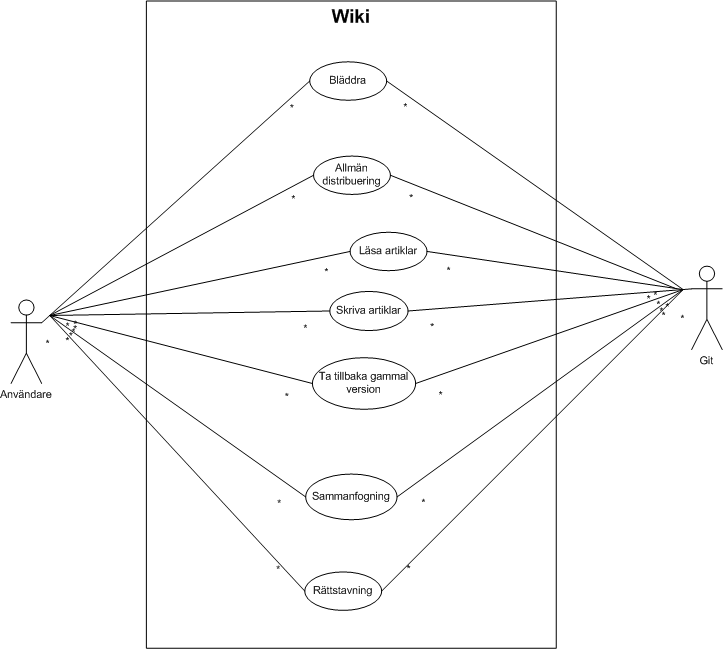
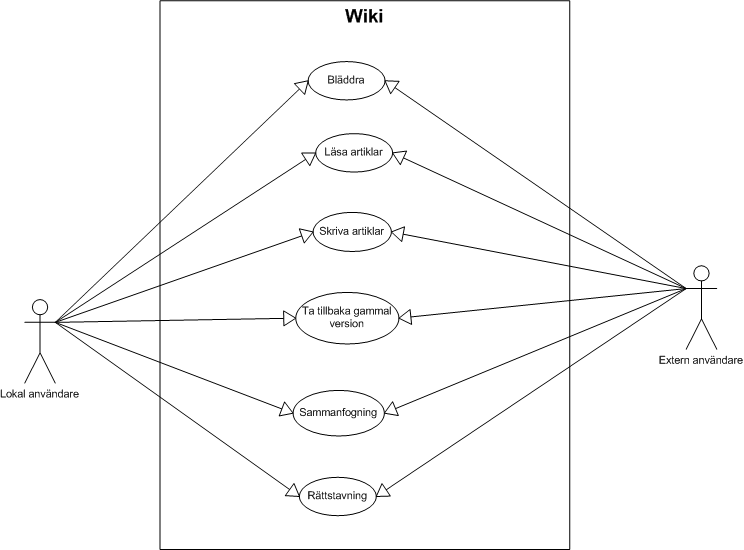
Use-case mode ska vara fixad med en ny bild

diff --git a/Dokument/Use-case Model.tex b/Dokument/Use-case Model.tex
@@ -27,22 +27,23 @@ För att enklare förstå de olika use-casen i har satt upp och få en överblic
 %Skapa en överblick för systemet, dvs beskriv vad systemet gör och vad desss mål är.
 Systemet i fråga är ett distribuerat versionshanteringssystem. Meningen med detta system är att man på ett enkelt sätt ska kunna hantera dokument i en wiki-miljö samtidigt som man inte ens behöver vara uppkopplad. När användaren sedan kopplar upp sig mot internet kan denne synkronisera sina ändringar med andra användares ändringar.
 \section{Use-case diagram}
-%\includegraphics{use-case-diagram.png}
-Här ska en bild på ett use-case diagram finnas
+ \begin{figure}[H] %  figure placement: here, top, bottom, or page
+  \centering
+  \includegraphics[scale=0.50]{Use-case-diagram.png}
+\end{figure}
+%\includegraphics{Use-case-diagram.png}
 \section{Aktörer}
 %Beskriv alla aktörer som finns med i use-case diagrammet.
 \begin{itemize}
-	\item Användare
-	\\Denna aktör representerar en normal användare inom systemet.
-	\item Git
-	\\Denna aktör ska representera systemet som ligger under wiki.
+	\item Lokal användare
+	\\Denna aktör representerar en normal användare som sitter vid sin dator och ej är uppkopplad mot internet.
+	\item Extern användare
+	\\Denna aktör representerar en användare som sitter uppkopplad mot systemet och internet.
 \end{itemize}
 \section{Use-cases}
 %Rada upp de olika use-cases som finns.
 \subsection{Bläddra}
 Detta use-case beskriver hur man bläddrar bland dokument.
-\subsection{Distribuering}
-Detta use-case beskriver hur man distribuerar dokument till andra användare inom wiki-gruppen.
 \subsection{Läsa artiklar}
 Detta use-case beskriver hur man läser sina egna eller andra användares artiklar.
 \subsection{Skriva en artikel}
